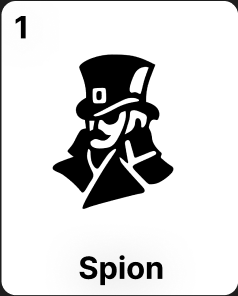
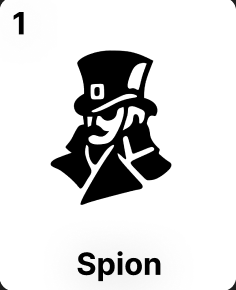
feat: rolkaarten wip

diff --git a/components/Spelersrollen/Spion.tsx b/components/Spelersrollen/Spion.tsx
@@ -1,0 +1,53 @@
+import React from 'react';
+import { useState } from 'react';
+import {
+  StyleSheet,
+  Image,
+  TouchableOpacity,
+  ImageSourcePropType,
+} from 'react-native';
+import QRCode from 'react-native-qrcode-svg';
+import { View } from 'react-native';
+
+interface Rolecardprops {
+  actie: string;
+  image: ImageSourcePropType;
+  code: string;
+}
+
+export const Spion = ({ actie, image, code }: Rolecardprops) => {
+  const [toggled, setToggled] = useState(false);
+
+  const styles = StyleSheet.create({
+    container: {
+      justifyContent: 'center',
+      alignItems: 'center',
+      overflow: 'hidden',
+    },
+    image: {
+      width: 100,
+      height: 100,
+      borderRadius: 40,
+      padding: 100,
+    },
+  });
+
+  return (
+    <TouchableOpacity
+      style={styles.container}
+      onPress={() => setToggled(!toggled)}
+      activeOpacity={0.8}>
+      {toggled ? (
+        <View style={styles.image}>
+          <QRCode value={`${actie}?${Math.random()}`} size={100} />
+        </View>
+      ) : (
+        <Image
+          style={styles.image}
+          resizeMode="contain"
+          // source={}
+        />
+      )}
+    </TouchableOpacity>
+  );
+};

diff --git a/stories/SpelerRol.stories.tsx b/stories/SpelerRol.stories.tsx
@@ -3,11 +3,11 @@ import { fn } from '@storybook/test';
 
 import { View } from 'react-native';
 
-import { SpelerRol } from '@/components/Player_page/SpelerRol';
+import { Spion } from '@/components/Spelersrollen/Spion';
 
 const meta = {
-  title: 'Player Page/SpelerRol',
-  component: SpelerRol,
+  title: 'Player Page/Spion',
+  component: Spion,
   decorators: [
     Story => (
       <View style={{ flex: 1, alignItems: 'flex-start' }}>
@@ -16,13 +16,13 @@ const meta = {
     ),
   ],
   tags: ['autodocs'],
-  args: { onPress: fn() },
-} satisfies Meta<typeof SpelerRol>;
+  // args: { onPress: fn() },
+} satisfies Meta<typeof Spion>;
 
 export default meta;
 
 type Story = StoryObj<typeof meta>;
 
-export const Primary: Story = {
-  args: {},
-};
+// export const Primary: Story = {
+//   args: {},
+// };
